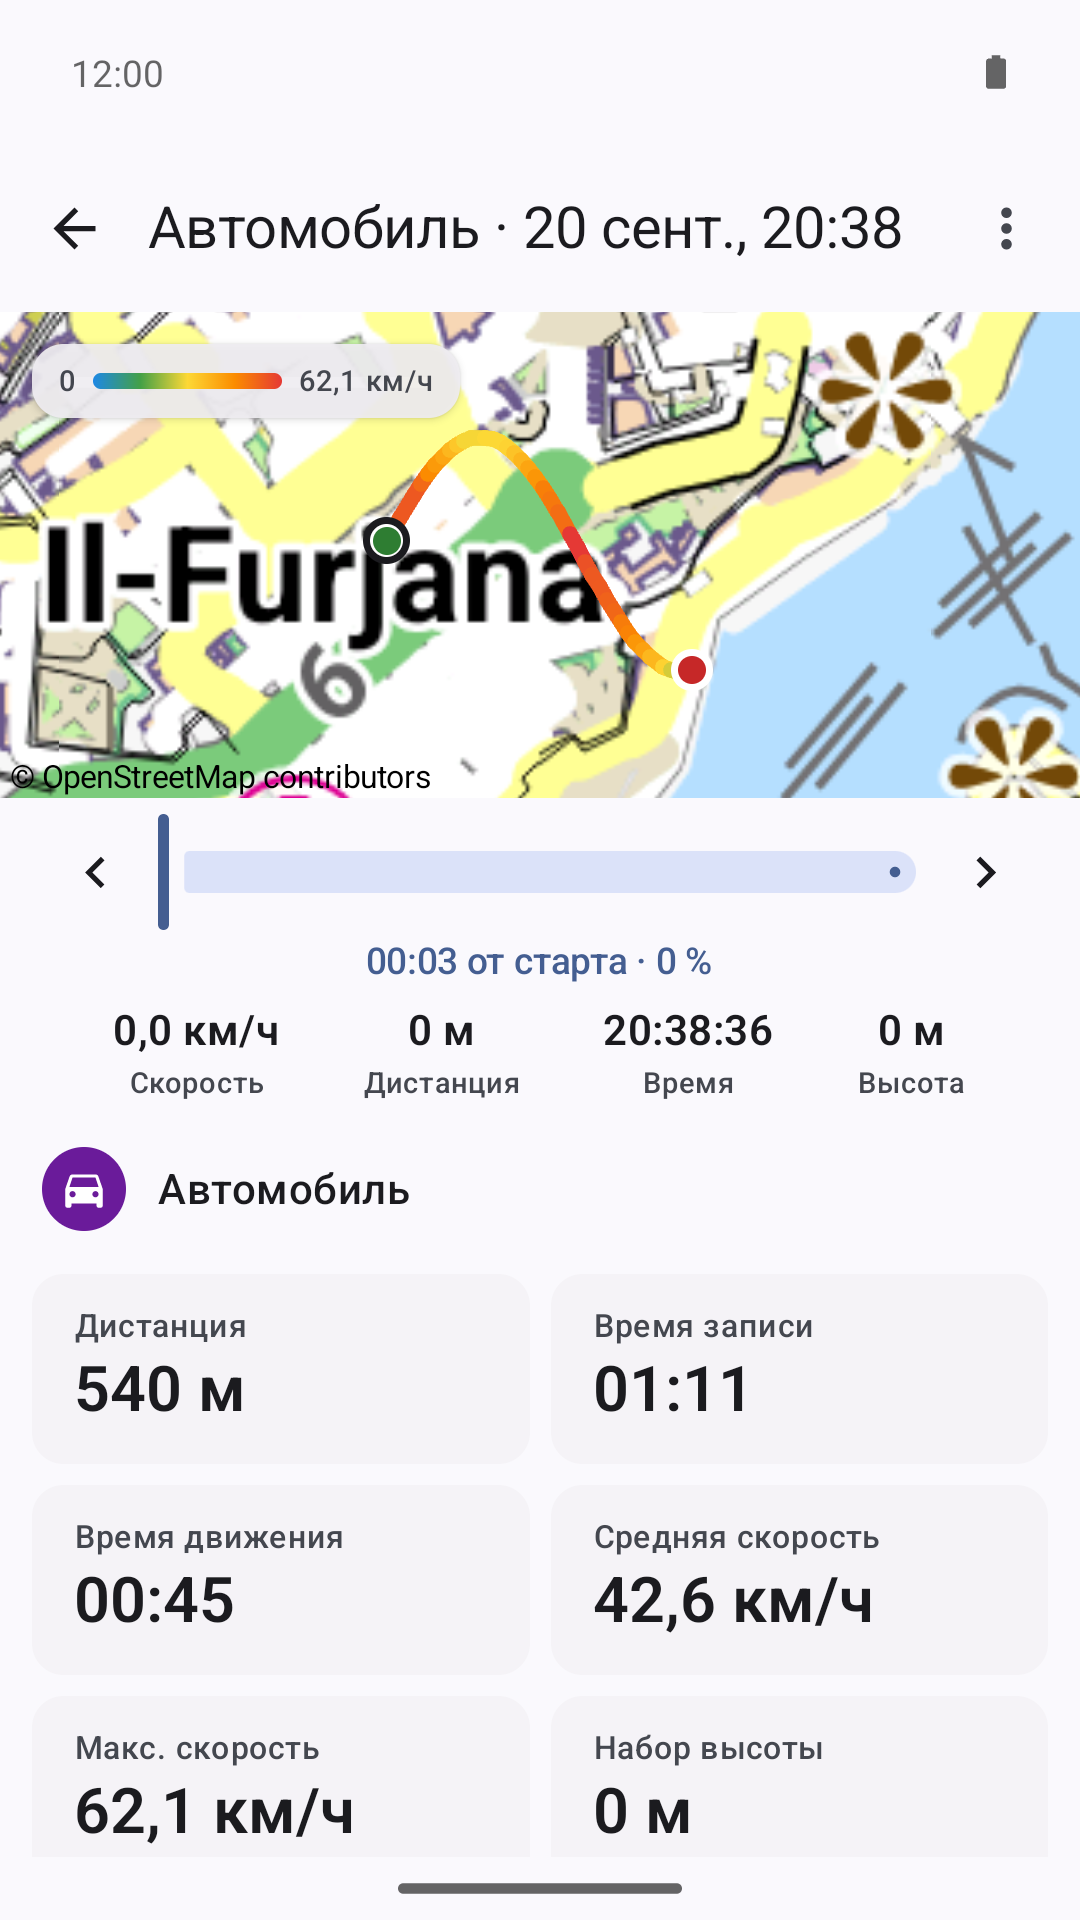
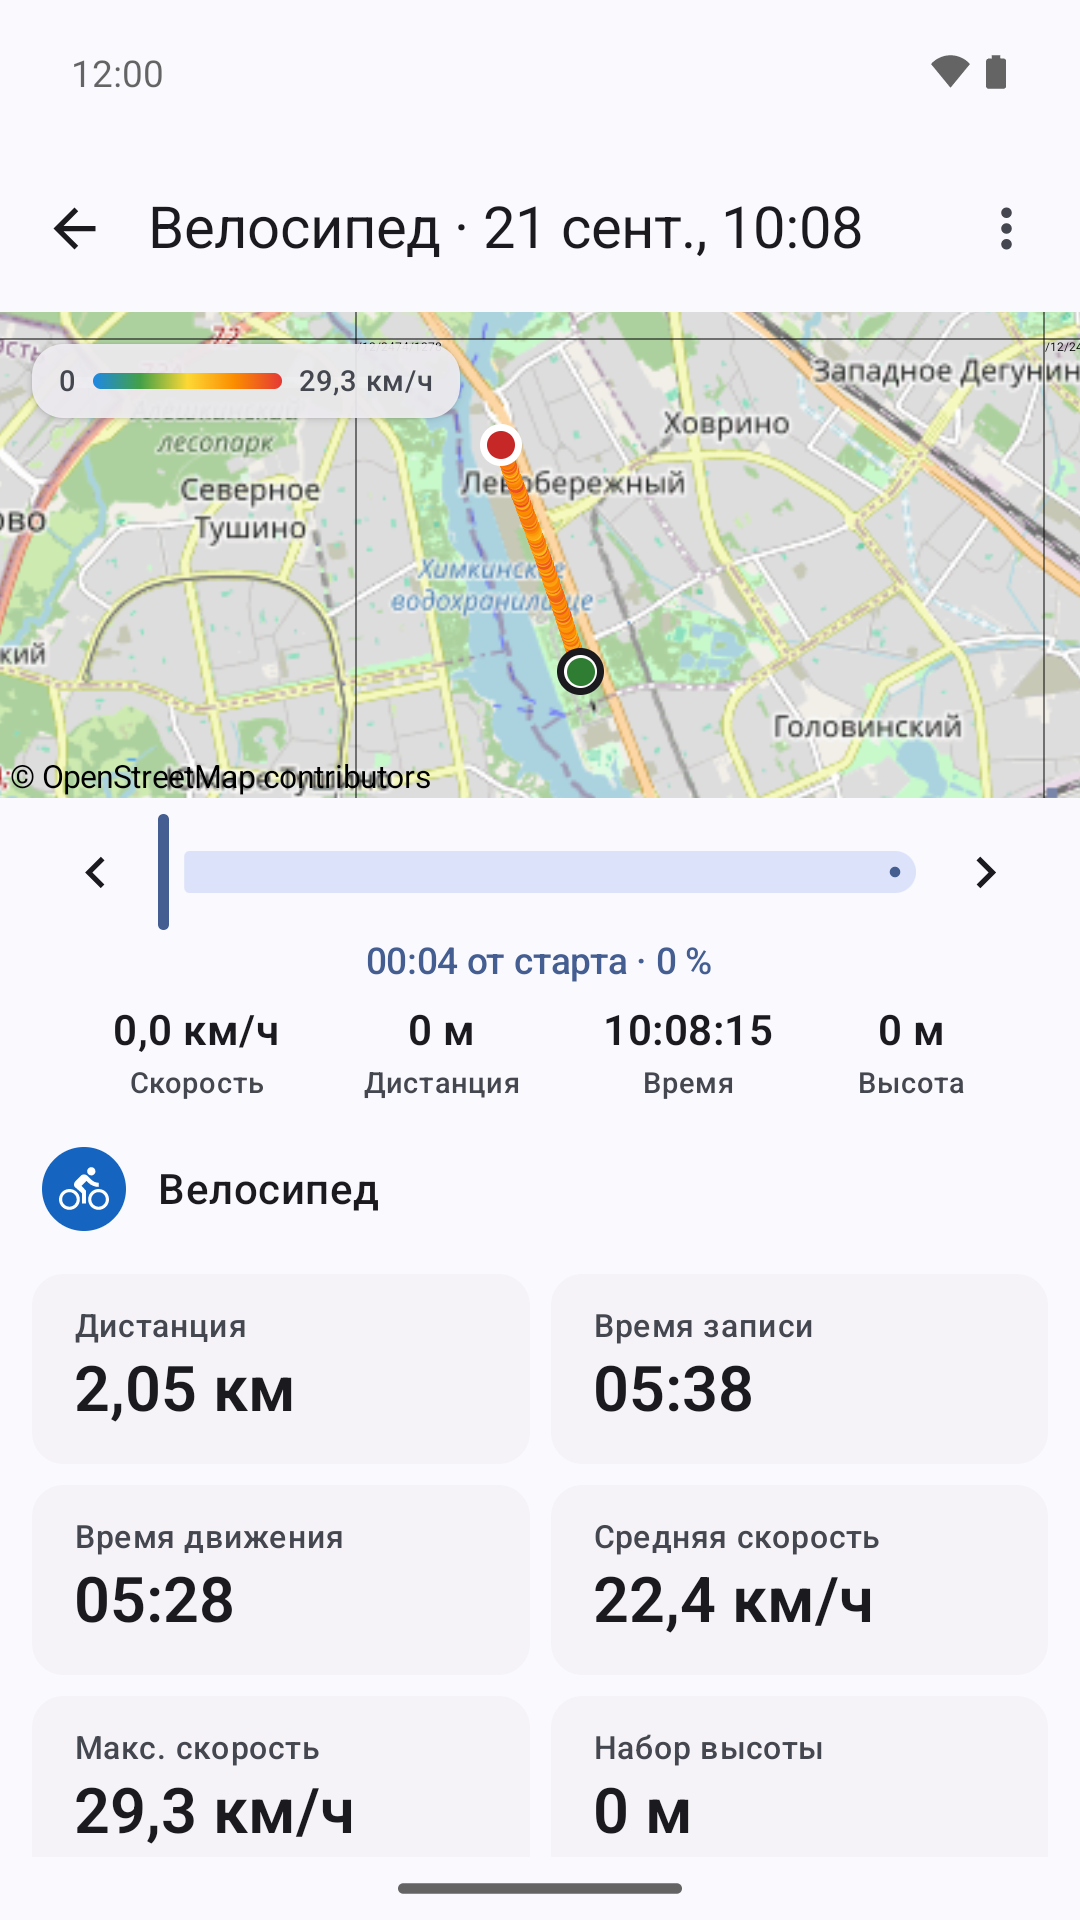
store(rustore): new screenshots — online map, running and cycling around the Northern River Terminal (Moscow)
Six 1080×1920 shots from the emulator (Russian UI): record screen during a run in the terminal park,
cycling track detail along the Khimki reservoir, offline maps, language step, history with two runs and
a ride, dark-theme record screen. README describes the set and how the routes were simulated.

diff --git a/store/rustore/screenshots/README.md b/store/rustore/screenshots/README.md
@@ -4,14 +4,16 @@
 
 ## Набор (порядок в карточке)
 
-| # | Файл | Экран | Как получить |
+| # | Файл | Экран | Содержание (снято 2026-09-21, онлайн-режим карты, эмулятор API 34, 1080×1920, RU) |
 |---|---|---|---|
-| 1 | `01_record.png` | Запись: карта с линией по скорости, панель «Скорость · Дистанция · Время записи» | Запись с симуляцией GPS, ~1 мин |
-| 2 | `02_detail.png` | Карточка трека: карта, ползунок, плитки статистики | Открыть трек из истории |
-| 3 | `03_offline_maps.png` | Настройки → Офлайн-карты, один регион в статусе «Готов» | Скачать «Мальта» |
-| 4 | `04_language.png` | Онбординг: выбор языка | Первый запуск (очистить данные приложения) |
-| 5 | `05_history.png` | История треков | ≥ 3 трека в истории |
-| 6 | `06_dark.png` | Экран записи в тёмной теме | Настройки → Тема → Тёмная |
+| 1 | `01_record.png` | Запись | Пробежка по парку Северного речного вокзала (Москва): онлайн-карта OSM, линия по скорости, 12,0 км/ч, 456 м, 0:02:41 |
+| 2 | `02_detail.png` | Карточка трека | Велопрогулка вдоль Химкинского водохранилища от Речного вокзала: «Велосипед», 2,05 км, 05:38, ср. 22,4 / макс. 29,3 км/ч, ползунок по треку |
+| 3 | `03_offline_maps.png` | Офлайн-карты | Переключатель Wi-Fi, «Регионы занимают 6,7 МБ», каталог регионов |
+| 4 | `04_language.png` | Онбординг | Выбор языка при первом запуске |
+| 5 | `05_history.png` | История | Три трека у Речного вокзала: Бег 462 м · Велосипед 2,05 км · Бег 972 м |
+| 6 | `06_dark.png` | Запись, тёмная тема | Велопрогулка у Речного вокзала (Московское речное пароходство), 19,8 км/ч |
+
+Маршруты симулированы скриптом (`adb emu geo fix`, 1 фикс/с, бег ≈ 3 м/с, велосипед ≈ 6,5 м/с) вокруг точки 55.8513 N, 37.4703 E — Северный речной вокзал; тип движения определён автоматически.
 
 Русская карточка — интерфейс на русском; для английской карточки повторить с языком English (папка `en/`).
 
